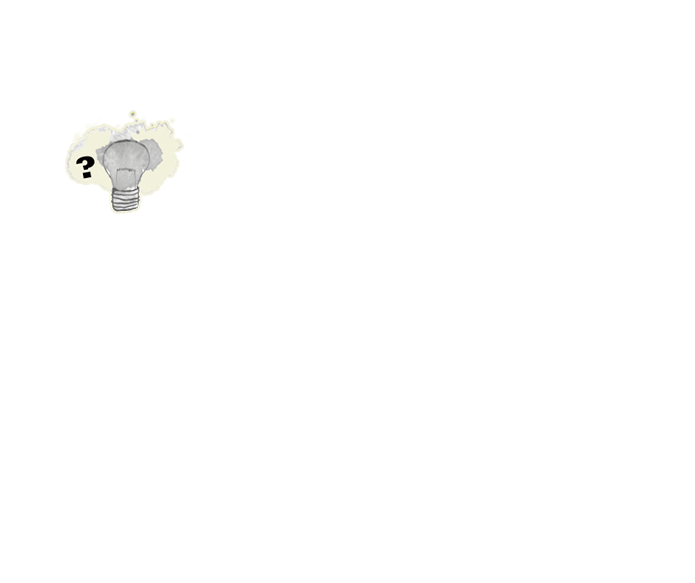
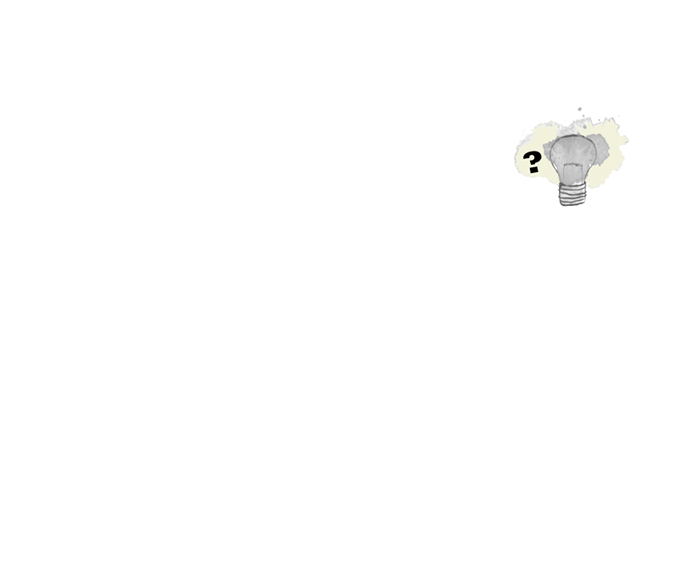
Update indexes, fix position of lightbulb for Ben Bitdiddle.

Changed region(s): [[0.7252, 0.1852, 0.9065, 0.3705], [0.0906, 0.1852, 0.2719, 0.3705]]

diff --git a/web/charles_lutwidge_dodgson/release.js b/web/charles_lutwidge_dodgson/release.js
@@ -1,10 +1,13 @@
 function imagemap() {
   return ''+
 "<img src=\"photo.png\" />"+
+"<img src=\"1-"+
+(puzzle_solved["1207_1370"]?"solved":"unsolved")+
+".png\" />"+
 "<img src=\"baby_quackers/-"+
 (puzzle_solved["baby_quackers"]?"solved":"unsolved")+
 ".png\" />"+
-"<img src=\"1-"+
+"<img src=\"2-"+
 (puzzle_solved["baby_sniffles"]?"solved":"unsolved")+
 ".png\" />"+
 "<img src=\"freshman_physics/-"+
@@ -16,7 +19,7 @@ function imagemap() {
 "<img src=\"medley/-"+
 (puzzle_solved["medley"]?"solved":"unsolved")+
 ".png\" />"+
-"<img src=\"2-"+
+"<img src=\"3-"+
 (puzzle_solved["middle_see"]?"solved":"unsolved")+
 ".png\" />"+
 "<img src=\"odd_voided/-"+
@@ -28,9 +31,6 @@ function imagemap() {
 "<img src=\"shady/-"+
 (puzzle_solved["shady"]?"solved":"unsolved")+
 ".png\" />"+
-"<img src=\"3-"+
-(puzzle_solved["skydancer"]?"solved":"unsolved")+
-".png\" />"+
 "<img src=\"toola_roola/-"+
 (puzzle_solved["toola_roola"]?"solved":"unsolved")+
 ".png\" />"+
@@ -40,16 +40,16 @@ function imagemap() {
 "<div class=\"paperclip\"></div>"+
 "<img src=\"../1px.png\" usemap=\"#map\" style=\"z-index:99\" />"+
 "<map name=\"map\">"+
+"<area shape=\"rect\" coords=\"75,185,112,260\" alt=\"1207 1370\" title=\"1207 1370\" href=\"../a_circus_line/1207_1370/\" />\n<area shape=\"rect\" coords=\"89,261,112,263\" alt=\"1207 1370\" title=\"1207 1370\" href=\"../a_circus_line/1207_1370/\" />\n<area shape=\"rect\" coords=\"113,193,143,289\" alt=\"1207 1370\" title=\"1207 1370\" href=\"../a_circus_line/1207_1370/\" />\n<area shape=\"rect\" coords=\"66,151,103,184\" alt=\"1207 1370\" title=\"1207 1370\" href=\"../a_circus_line/1207_1370/\" />\n<area shape=\"rect\" coords=\"72,188,74,200\" alt=\"1207 1370\" title=\"1207 1370\" href=\"../a_circus_line/1207_1370/\" />"+
 "<area shape=\"rect\" coords=\"400,340,452,480\" alt=\"Baby Quackers\" title=\"Baby Quackers\" href=\"baby_quackers/\" />\n<area shape=\"rect\" coords=\"400,481,411,486\" alt=\"Baby Quackers\" title=\"Baby Quackers\" href=\"baby_quackers/\" />\n<area shape=\"rect\" coords=\"453,389,517,463\" alt=\"Baby Quackers\" title=\"Baby Quackers\" href=\"baby_quackers/\" />\n<area shape=\"rect\" coords=\"407,325,435,339\" alt=\"Baby Quackers\" title=\"Baby Quackers\" href=\"baby_quackers/\" />\n<area shape=\"rect\" coords=\"393,450,399,484\" alt=\"Baby Quackers\" title=\"Baby Quackers\" href=\"baby_quackers/\" />"+
-"<area shape=\"rect\" coords=\"75,185,112,260\" alt=\"Baby Sniffles\" title=\"Baby Sniffles\" href=\"../okla_holmes_a/baby_sniffles/\" />\n<area shape=\"rect\" coords=\"89,261,112,263\" alt=\"Baby Sniffles\" title=\"Baby Sniffles\" href=\"../okla_holmes_a/baby_sniffles/\" />\n<area shape=\"rect\" coords=\"113,193,143,289\" alt=\"Baby Sniffles\" title=\"Baby Sniffles\" href=\"../okla_holmes_a/baby_sniffles/\" />\n<area shape=\"rect\" coords=\"66,151,103,184\" alt=\"Baby Sniffles\" title=\"Baby Sniffles\" href=\"../okla_holmes_a/baby_sniffles/\" />\n<area shape=\"rect\" coords=\"72,188,74,200\" alt=\"Baby Sniffles\" title=\"Baby Sniffles\" href=\"../okla_holmes_a/baby_sniffles/\" />"+
+"<area shape=\"rect\" coords=\"486,199,509,307\" alt=\"Baby Sniffles\" title=\"Baby Sniffles\" href=\"../okla_holmes_a/baby_sniffles/\" />\n<area shape=\"rect\" coords=\"510,209,514,297\" alt=\"Baby Sniffles\" title=\"Baby Sniffles\" href=\"../okla_holmes_a/baby_sniffles/\" />\n<area shape=\"rect\" coords=\"518,231,621,289\" alt=\"Baby Sniffles\" title=\"Baby Sniffles\" href=\"../okla_holmes_a/baby_sniffles/\" />\n<area shape=\"rect\" coords=\"466,208,485,315\" alt=\"Baby Sniffles\" title=\"Baby Sniffles\" href=\"../okla_holmes_a/baby_sniffles/\" />\n<area shape=\"rect\" coords=\"515,242,517,293\" alt=\"Baby Sniffles\" title=\"Baby Sniffles\" href=\"../okla_holmes_a/baby_sniffles/\" />"+
 "<area shape=\"rect\" coords=\"186,466,200,493\" alt=\"Freshman Physics\" title=\"Freshman Physics\" href=\"freshman_physics/\" />\n<area shape=\"rect\" coords=\"207,466,300,493\" alt=\"Freshman Physics\" title=\"Freshman Physics\" href=\"freshman_physics/\" />\n<area shape=\"rect\" coords=\"218,420,305,465\" alt=\"Freshman Physics\" title=\"Freshman Physics\" href=\"freshman_physics/\" />\n<area shape=\"rect\" coords=\"196,509,272,539\" alt=\"Freshman Physics\" title=\"Freshman Physics\" href=\"freshman_physics/\" />\n<area shape=\"rect\" coords=\"183,494,284,508\" alt=\"Freshman Physics\" title=\"Freshman Physics\" href=\"freshman_physics/\" />"+
 "<area shape=\"rect\" coords=\"105,374,160,383\" alt=\"Gibberish and More Gibberish\" title=\"Gibberish and More Gibberish\" href=\"gibberish_and_more_gibberish/\" />\n<area shape=\"rect\" coords=\"69,384,181,420\" alt=\"Gibberish and More Gibberish\" title=\"Gibberish and More Gibberish\" href=\"gibberish_and_more_gibberish/\" />\n<area shape=\"rect\" coords=\"76,421,209,453\" alt=\"Gibberish and More Gibberish\" title=\"Gibberish and More Gibberish\" href=\"gibberish_and_more_gibberish/\" />\n<area shape=\"rect\" coords=\"126,454,212,471\" alt=\"Gibberish and More Gibberish\" title=\"Gibberish and More Gibberish\" href=\"gibberish_and_more_gibberish/\" />\n<area shape=\"rect\" coords=\"126,336,155,373\" alt=\"Gibberish and More Gibberish\" title=\"Gibberish and More Gibberish\" href=\"gibberish_and_more_gibberish/\" />"+
 "<area shape=\"rect\" coords=\"530,285,563,390\" alt=\"Medley\" title=\"Medley\" href=\"medley/\" />\n<area shape=\"rect\" coords=\"548,391,561,394\" alt=\"Medley\" title=\"Medley\" href=\"medley/\" />\n<area shape=\"rect\" coords=\"514,288,529,385\" alt=\"Medley\" title=\"Medley\" href=\"medley/\" />\n<area shape=\"rect\" coords=\"474,322,513,380\" alt=\"Medley\" title=\"Medley\" href=\"medley/\" />\n<area shape=\"rect\" coords=\"564,337,572,387\" alt=\"Medley\" title=\"Medley\" href=\"medley/\" />"+
-"<area shape=\"rect\" coords=\"486,199,509,307\" alt=\"Middle-See\" title=\"Middle-See\" href=\"../a_circus_line/middle_see/\" />\n<area shape=\"rect\" coords=\"510,209,514,297\" alt=\"Middle-See\" title=\"Middle-See\" href=\"../a_circus_line/middle_see/\" />\n<area shape=\"rect\" coords=\"518,231,621,289\" alt=\"Middle-See\" title=\"Middle-See\" href=\"../a_circus_line/middle_see/\" />\n<area shape=\"rect\" coords=\"466,208,485,315\" alt=\"Middle-See\" title=\"Middle-See\" href=\"../a_circus_line/middle_see/\" />\n<area shape=\"rect\" coords=\"515,242,517,293\" alt=\"Middle-See\" title=\"Middle-See\" href=\"../a_circus_line/middle_see/\" />"+
+"<area shape=\"rect\" coords=\"347,98,402,141\" alt=\"Middle-See\" title=\"Middle-See\" href=\"../a_circus_line/middle_see/\" />\n<area shape=\"rect\" coords=\"349,142,401,163\" alt=\"Middle-See\" title=\"Middle-See\" href=\"../a_circus_line/middle_see/\" />\n<area shape=\"rect\" coords=\"361,164,396,193\" alt=\"Middle-See\" title=\"Middle-See\" href=\"../a_circus_line/middle_see/\" />\n<area shape=\"rect\" coords=\"348,86,377,97\" alt=\"Middle-See\" title=\"Middle-See\" href=\"../a_circus_line/middle_see/\" />\n<area shape=\"rect\" coords=\"403,117,406,140\" alt=\"Middle-See\" title=\"Middle-See\" href=\"../a_circus_line/middle_see/\" />"+
 "<area shape=\"rect\" coords=\"193,178,265,185\" alt=\"Odd Voided\" title=\"Odd Voided\" href=\"odd_voided/\" />\n<area shape=\"rect\" coords=\"186,186,267,254\" alt=\"Odd Voided\" title=\"Odd Voided\" href=\"odd_voided/\" />\n<area shape=\"rect\" coords=\"172,255,259,315\" alt=\"Odd Voided\" title=\"Odd Voided\" href=\"odd_voided/\" />\n<area shape=\"rect\" coords=\"268,186,276,230\" alt=\"Odd Voided\" title=\"Odd Voided\" href=\"odd_voided/\" />\n<area shape=\"rect\" coords=\"239,161,255,177\" alt=\"Odd Voided\" title=\"Odd Voided\" href=\"odd_voided/\" />"+
 "<area shape=\"rect\" coords=\"489,30,536,57\" alt=\"Sapphire Shores\" title=\"Sapphire Shores\" href=\"sapphire_shores/\" />\n<area shape=\"rect\" coords=\"489,58,554,96\" alt=\"Sapphire Shores\" title=\"Sapphire Shores\" href=\"sapphire_shores/\" />\n<area shape=\"rect\" coords=\"460,147,543,191\" alt=\"Sapphire Shores\" title=\"Sapphire Shores\" href=\"sapphire_shores/\" />\n<area shape=\"rect\" coords=\"470,114,558,146\" alt=\"Sapphire Shores\" title=\"Sapphire Shores\" href=\"sapphire_shores/\" />\n<area shape=\"rect\" coords=\"481,97,560,113\" alt=\"Sapphire Shores\" title=\"Sapphire Shores\" href=\"sapphire_shores/\" />"+
 "<area shape=\"rect\" coords=\"318,391,352,451\" alt=\"Shady\" title=\"Shady\" href=\"shady/\" />\n<area shape=\"rect\" coords=\"353,393,359,441\" alt=\"Shady\" title=\"Shady\" href=\"shady/\" />\n<area shape=\"rect\" coords=\"360,397,425,434\" alt=\"Shady\" title=\"Shady\" href=\"shady/\" />\n<area shape=\"rect\" coords=\"299,400,317,450\" alt=\"Shady\" title=\"Shady\" href=\"shady/\" />\n<area shape=\"rect\" coords=\"338,387,351,390\" alt=\"Shady\" title=\"Shady\" href=\"shady/\" />"+
-"<area shape=\"rect\" coords=\"347,98,402,141\" alt=\"Skydancer\" title=\"Skydancer\" href=\"../a_circus_line/skydancer/\" />\n<area shape=\"rect\" coords=\"349,142,401,163\" alt=\"Skydancer\" title=\"Skydancer\" href=\"../a_circus_line/skydancer/\" />\n<area shape=\"rect\" coords=\"361,164,396,193\" alt=\"Skydancer\" title=\"Skydancer\" href=\"../a_circus_line/skydancer/\" />\n<area shape=\"rect\" coords=\"348,86,377,97\" alt=\"Skydancer\" title=\"Skydancer\" href=\"../a_circus_line/skydancer/\" />\n<area shape=\"rect\" coords=\"403,117,406,140\" alt=\"Skydancer\" title=\"Skydancer\" href=\"../a_circus_line/skydancer/\" />"+
 "<area shape=\"rect\" coords=\"341,247,356,359\" alt=\"Toola-Roola\" title=\"Toola-Roola\" href=\"toola_roola/\" />\n<area shape=\"rect\" coords=\"357,239,374,344\" alt=\"Toola-Roola\" title=\"Toola-Roola\" href=\"toola_roola/\" />\n<area shape=\"rect\" coords=\"301,201,326,345\" alt=\"Toola-Roola\" title=\"Toola-Roola\" href=\"toola_roola/\" />\n<area shape=\"rect\" coords=\"327,215,340,352\" alt=\"Toola-Roola\" title=\"Toola-Roola\" href=\"toola_roola/\" />\n<area shape=\"rect\" coords=\"375,278,399,339\" alt=\"Toola-Roola\" title=\"Toola-Roola\" href=\"toola_roola/\" />"+
 "<area shape=\"rect\" coords=\"589,343,618,380\" alt=\"Winning Conditions\" title=\"Winning Conditions\" href=\"../okla_holmes_a/winning_conditions/\" />\n<area shape=\"rect\" coords=\"588,381,629,412\" alt=\"Winning Conditions\" title=\"Winning Conditions\" href=\"../okla_holmes_a/winning_conditions/\" />\n<area shape=\"rect\" coords=\"576,413,638,443\" alt=\"Winning Conditions\" title=\"Winning Conditions\" href=\"../okla_holmes_a/winning_conditions/\" />\n<area shape=\"rect\" coords=\"570,458,614,475\" alt=\"Winning Conditions\" title=\"Winning Conditions\" href=\"../okla_holmes_a/winning_conditions/\" />\n<area shape=\"rect\" coords=\"578,444,623,457\" alt=\"Winning Conditions\" title=\"Winning Conditions\" href=\"../okla_holmes_a/winning_conditions/\" />"+
 "</map>"+
@@ -58,6 +58,14 @@ function imagemap() {
 function puzzlelist() {
   return ""+
 "<table class=\"materials\">"+
+"<tr>"+
+"<td class=\"a_circus_line "+
+(puzzle_solved["1207_1370"]?"solved":"unsolved")+
+"\"><a href=\"../a_circus_line/1207_1370/\"><span>1207 1370</span></a></td>"+
+"<td class=\"a_circus_line "+
+(puzzle_solved["middle_see"]?"solved":"unsolved")+
+"\"><a href=\"../a_circus_line/middle_see/\"><span>Middle-See</span></a></td>"+
+"</tr>"+
 "<tr>"+
 "<td class=\"charles_lutwidge_dodgson "+
 (puzzle_solved["baby_quackers"]?"solved":"unsolved")+
@@ -86,22 +94,14 @@ function puzzlelist() {
 "<td class=\"charles_lutwidge_dodgson "+
 (puzzle_solved["gibberish_and_more_gibberish"]?"solved":"unsolved")+
 "\"><a href=\"gibberish_and_more_gibberish/\"><span>Gibberish and More Gibberish</span></a></td>"+
-"<td class=\"a_circus_line "+
-(puzzle_solved["skydancer"]?"solved":"unsolved")+
-"\"><a href=\"../a_circus_line/skydancer/\"><span>Skydancer</span></a></td>"+
-"</tr>"+
-"<tr>"+
-"<td class=\"charles_lutwidge_dodgson "+
-(puzzle_solved["medley"]?"solved":"unsolved")+
-"\"><a href=\"medley/\"><span>Medley</span></a></td>"+
 "<td class=\"charles_lutwidge_dodgson "+
 (puzzle_solved["toola_roola"]?"solved":"unsolved")+
 "\"><a href=\"toola_roola/\"><span>Toola-Roola</span></a></td>"+
 "</tr>"+
 "<tr>"+
-"<td class=\"a_circus_line "+
-(puzzle_solved["middle_see"]?"solved":"unsolved")+
-"\"><a href=\"../a_circus_line/middle_see/\"><span>Middle-See</span></a></td>"+
+"<td class=\"charles_lutwidge_dodgson "+
+(puzzle_solved["medley"]?"solved":"unsolved")+
+"\"><a href=\"medley/\"><span>Medley</span></a></td>"+
 "<td class=\"okla_holmes_a "+
 (puzzle_solved["winning_conditions"]?"solved":"unsolved")+
 "\"><a href=\"../okla_holmes_a/winning_conditions/\"><span>Winning Conditions</span></a></td>"+

diff --git a/web/a_circus_line/release.js b/web/a_circus_line/release.js
@@ -1,6 +1,9 @@
 function imagemap() {
   return ''+
 "<img src=\"key.png\" />"+
+"<img src=\"1207_1370/-"+
+(puzzle_solved["1207_1370"]?"solved":"unsolved")+
+".png\" />"+
 "<img src=\"fight_choreography/-"+
 (puzzle_solved["fight_choreography"]?"solved":"unsolved")+
 ".png\" />"+
@@ -19,9 +22,6 @@ function imagemap() {
 "<img src=\"revisiting_history/-"+
 (puzzle_solved["revisiting_history"]?"solved":"unsolved")+
 ".png\" />"+
-"<img src=\"skydancer/-"+
-(puzzle_solved["skydancer"]?"solved":"unsolved")+
-".png\" />"+
 "<img src=\"star_search/-"+
 (puzzle_solved["star_search"]?"solved":"unsolved")+
 ".png\" />"+
@@ -33,13 +33,13 @@ function imagemap() {
 ".png\" />"+
 "<img src=\"../1px.png\" usemap=\"#map\" style=\"z-index:99\" />"+
 "<map name=\"map\">"+
+"<area shape=\"rect\" coords=\"384,321,539,348\" alt=\"1207 1370\" title=\"1207 1370\" href=\"1207_1370/\" />\n<area shape=\"rect\" coords=\"336,349,583,395\" alt=\"1207 1370\" title=\"1207 1370\" href=\"1207_1370/\" />\n<area shape=\"rect\" coords=\"480,209,611,320\" alt=\"1207 1370\" title=\"1207 1370\" href=\"1207_1370/\" />\n<area shape=\"rect\" coords=\"341,455,497,537\" alt=\"1207 1370\" title=\"1207 1370\" href=\"1207_1370/\" />\n<area shape=\"rect\" coords=\"353,396,649,454\" alt=\"1207 1370\" title=\"1207 1370\" href=\"1207_1370/\" />"+
 "<area shape=\"rect\" coords=\"575,215,602,240\" alt=\"Fight Choreography\" title=\"Fight Choreography\" href=\"fight_choreography/\" />\n<area shape=\"rect\" coords=\"618,222,639,240\" alt=\"Fight Choreography\" title=\"Fight Choreography\" href=\"fight_choreography/\" />\n<area shape=\"rect\" coords=\"569,241,632,258\" alt=\"Fight Choreography\" title=\"Fight Choreography\" href=\"fight_choreography/\" />\n<area shape=\"rect\" coords=\"584,272,609,300\" alt=\"Fight Choreography\" title=\"Fight Choreography\" href=\"fight_choreography/\" />\n<area shape=\"rect\" coords=\"566,259,623,271\" alt=\"Fight Choreography\" title=\"Fight Choreography\" href=\"fight_choreography/\" />"+
 "<area shape=\"rect\" coords=\"56,238,170,397\" alt=\"Magic Star\" title=\"Magic Star\" href=\"magic_star/\" />\n<area shape=\"rect\" coords=\"50,398,163,446\" alt=\"Magic Star\" title=\"Magic Star\" href=\"magic_star/\" />\n<area shape=\"rect\" coords=\"31,447,142,517\" alt=\"Magic Star\" title=\"Magic Star\" href=\"magic_star/\" />\n<area shape=\"rect\" coords=\"47,183,77,237\" alt=\"Magic Star\" title=\"Magic Star\" href=\"magic_star/\" />\n<area shape=\"rect\" coords=\"171,316,191,399\" alt=\"Magic Star\" title=\"Magic Star\" href=\"magic_star/\" />"+
 "<area shape=\"rect\" coords=\"402,242,415,308\" alt=\"Middle-See\" title=\"Middle-See\" href=\"middle_see/\" />\n<area shape=\"rect\" coords=\"406,309,415,315\" alt=\"Middle-See\" title=\"Middle-See\" href=\"middle_see/\" />\n<area shape=\"rect\" coords=\"416,244,432,331\" alt=\"Middle-See\" title=\"Middle-See\" href=\"middle_see/\" />\n<area shape=\"rect\" coords=\"385,276,398,297\" alt=\"Middle-See\" title=\"Middle-See\" href=\"middle_see/\" />\n<area shape=\"rect\" coords=\"399,261,401,285\" alt=\"Middle-See\" title=\"Middle-See\" href=\"middle_see/\" />"+
 "<area shape=\"rect\" coords=\"155,462,359,502\" alt=\"Potlines\" title=\"Potlines\" href=\"potlines/\" />\n<area shape=\"rect\" coords=\"155,503,362,505\" alt=\"Potlines\" title=\"Potlines\" href=\"potlines/\" />\n<area shape=\"rect\" coords=\"165,295,321,437\" alt=\"Potlines\" title=\"Potlines\" href=\"potlines/\" />\n<area shape=\"rect\" coords=\"138,506,415,537\" alt=\"Potlines\" title=\"Potlines\" href=\"potlines/\" />\n<area shape=\"rect\" coords=\"159,438,343,461\" alt=\"Potlines\" title=\"Potlines\" href=\"potlines/\" />"+
 "<area shape=\"rect\" coords=\"243,0,363,6\" alt=\"Pure and Simple\" title=\"Pure and Simple\" href=\"pure_and_simple/\" />\n<area shape=\"rect\" coords=\"212,7,366,27\" alt=\"Pure and Simple\" title=\"Pure and Simple\" href=\"pure_and_simple/\" />\n<area shape=\"rect\" coords=\"201,45,325,79\" alt=\"Pure and Simple\" title=\"Pure and Simple\" href=\"pure_and_simple/\" />\n<area shape=\"rect\" coords=\"100,25,200,120\" alt=\"Pure and Simple\" title=\"Pure and Simple\" href=\"pure_and_simple/\" />\n<area shape=\"rect\" coords=\"205,28,349,44\" alt=\"Pure and Simple\" title=\"Pure and Simple\" href=\"pure_and_simple/\" />"+
 "<area shape=\"rect\" coords=\"654,251,673,300\" alt=\"Revisiting History\" title=\"Revisiting History\" href=\"revisiting_history/\" />\n<area shape=\"rect\" coords=\"654,301,664,329\" alt=\"Revisiting History\" title=\"Revisiting History\" href=\"revisiting_history/\" />\n<area shape=\"rect\" coords=\"619,277,644,358\" alt=\"Revisiting History\" title=\"Revisiting History\" href=\"revisiting_history/\" />\n<area shape=\"rect\" coords=\"645,259,653,359\" alt=\"Revisiting History\" title=\"Revisiting History\" href=\"revisiting_history/\" />\n<area shape=\"rect\" coords=\"674,281,682,309\" alt=\"Revisiting History\" title=\"Revisiting History\" href=\"revisiting_history/\" />"+
-"<area shape=\"rect\" coords=\"384,321,539,348\" alt=\"Skydancer\" title=\"Skydancer\" href=\"skydancer/\" />\n<area shape=\"rect\" coords=\"336,349,583,395\" alt=\"Skydancer\" title=\"Skydancer\" href=\"skydancer/\" />\n<area shape=\"rect\" coords=\"480,209,611,320\" alt=\"Skydancer\" title=\"Skydancer\" href=\"skydancer/\" />\n<area shape=\"rect\" coords=\"341,455,497,537\" alt=\"Skydancer\" title=\"Skydancer\" href=\"skydancer/\" />\n<area shape=\"rect\" coords=\"353,396,649,454\" alt=\"Skydancer\" title=\"Skydancer\" href=\"skydancer/\" />"+
 "<area shape=\"rect\" coords=\"324,49,348,60\" alt=\"Star Search\" title=\"Star Search\" href=\"star_search/\" />\n<area shape=\"rect\" coords=\"324,61,371,76\" alt=\"Star Search\" title=\"Star Search\" href=\"star_search/\" />\n<area shape=\"rect\" coords=\"336,77,369,99\" alt=\"Star Search\" title=\"Star Search\" href=\"star_search/\" />\n<area shape=\"rect\" coords=\"340,105,352,118\" alt=\"Star Search\" title=\"Star Search\" href=\"star_search/\" />\n<area shape=\"rect\" coords=\"338,100,362,104\" alt=\"Star Search\" title=\"Star Search\" href=\"star_search/\" />\n<area shape=\"rect\" coords=\"374,67,378,72\" alt=\"Star Search\" title=\"Star Search\" href=\"star_search/\" />"+
 "<area shape=\"rect\" coords=\"233,188,272,453\" alt=\"The Wicked Switch\" title=\"The Wicked Switch\" href=\"the_wicked_switch/\" />\n<area shape=\"rect\" coords=\"273,206,280,422\" alt=\"The Wicked Switch\" title=\"The Wicked Switch\" href=\"the_wicked_switch/\" />\n<area shape=\"rect\" coords=\"281,270,352,459\" alt=\"The Wicked Switch\" title=\"The Wicked Switch\" href=\"the_wicked_switch/\" />\n<area shape=\"rect\" coords=\"58,488,157,537\" alt=\"The Wicked Switch\" title=\"The Wicked Switch\" href=\"the_wicked_switch/\" />\n<area shape=\"rect\" coords=\"219,228,232,436\" alt=\"The Wicked Switch\" title=\"The Wicked Switch\" href=\"the_wicked_switch/\" />\n<area shape=\"rect\" coords=\"172,496,213,537\" alt=\"The Wicked Switch\" title=\"The Wicked Switch\" href=\"the_wicked_switch/\" />\n<area shape=\"rect\" coords=\"240,454,257,485\" alt=\"The Wicked Switch\" title=\"The Wicked Switch\" href=\"the_wicked_switch/\" />\n<area shape=\"rect\" coords=\"74,203,83,207\" alt=\"The Wicked Switch\" title=\"The Wicked Switch\" href=\"the_wicked_switch/\" />\n<area shape=\"rect\" coords=\"94,263,98,266\" alt=\"The Wicked Switch\" title=\"The Wicked Switch\" href=\"the_wicked_switch/\" />"+
 "<area shape=\"rect\" coords=\"561,397,577,531\" alt=\"Truly\" title=\"Truly\" href=\"truly/\" />\n<area shape=\"rect\" coords=\"578,406,588,497\" alt=\"Truly\" title=\"Truly\" href=\"truly/\" />\n<area shape=\"rect\" coords=\"541,433,560,536\" alt=\"Truly\" title=\"Truly\" href=\"truly/\" />\n<area shape=\"rect\" coords=\"589,414,617,451\" alt=\"Truly\" title=\"Truly\" href=\"truly/\" />\n<area shape=\"rect\" coords=\"522,438,540,487\" alt=\"Truly\" title=\"Truly\" href=\"truly/\" />"+
@@ -48,6 +48,14 @@ function imagemap() {
 }
 function puzzlelist() {
   return ""+
+"<tr>"+
+"<td><a href=\"1207_1370/\" class=\""+
+(puzzle_solved["1207_1370"]?"solved":"unsolved")+
+"\">1207 1370</a></td>"+
+"<td><a href=\"pure_and_simple/\" class=\""+
+(puzzle_solved["pure_and_simple"]?"solved":"unsolved")+
+"\">Pure and Simple</a></td>"+
+"</tr>"+
 "<tr>"+
 "<td><a href=\"fight_choreography/\" class=\""+
 (puzzle_solved["fight_choreography"]?"solved":"unsolved")+
@@ -60,30 +68,22 @@ function puzzlelist() {
 "<td><a href=\"magic_star/\" class=\""+
 (puzzle_solved["magic_star"]?"solved":"unsolved")+
 "\">Magic Star</a></td>"+
-"<td><a href=\"skydancer/\" class=\""+
-(puzzle_solved["skydancer"]?"solved":"unsolved")+
-"\">Skydancer</a></td>"+
-"</tr>"+
-"<tr>"+
-"<td><a href=\"middle_see/\" class=\""+
-(puzzle_solved["middle_see"]?"solved":"unsolved")+
-"\">Middle-See</a></td>"+
 "<td><a href=\"star_search/\" class=\""+
 (puzzle_solved["star_search"]?"solved":"unsolved")+
 "\">Star Search</a></td>"+
 "</tr>"+
 "<tr>"+
-"<td><a href=\"potlines/\" class=\""+
-(puzzle_solved["potlines"]?"solved":"unsolved")+
-"\">Potlines</a></td>"+
+"<td><a href=\"middle_see/\" class=\""+
+(puzzle_solved["middle_see"]?"solved":"unsolved")+
+"\">Middle-See</a></td>"+
 "<td><a href=\"the_wicked_switch/\" class=\""+
 (puzzle_solved["the_wicked_switch"]?"solved":"unsolved")+
 "\">The Wicked Switch</a></td>"+
 "</tr>"+
 "<tr>"+
-"<td><a href=\"pure_and_simple/\" class=\""+
-(puzzle_solved["pure_and_simple"]?"solved":"unsolved")+
-"\">Pure and Simple</a></td>"+
+"<td><a href=\"potlines/\" class=\""+
+(puzzle_solved["potlines"]?"solved":"unsolved")+
+"\">Potlines</a></td>"+
 "<td><a href=\"truly/\" class=\""+
 (puzzle_solved["truly"]?"solved":"unsolved")+
 "\">Truly</a></td>"+

diff --git a/web/ben_bitdiddle/release.js b/web/ben_bitdiddle/release.js
@@ -62,7 +62,7 @@ function imagemap() {
 "<img src=\"../1px.png\" usemap=\"#map\" style=\"z-index:99\" />"+
 "<map name=\"map\">"+
 "<area shape=\"rect\" coords=\"60,249,116,265\" alt=\"Dawn of a New Era\" title=\"Dawn of a New Era\" href=\"../into_the_woodstock/dawn_of_a_new_era/\" />\n<area shape=\"rect\" coords=\"54,266,113,277\" alt=\"Dawn of a New Era\" title=\"Dawn of a New Era\" href=\"../into_the_woodstock/dawn_of_a_new_era/\" />\n<area shape=\"rect\" coords=\"40,278,103,300\" alt=\"Dawn of a New Era\" title=\"Dawn of a New Era\" href=\"../into_the_woodstock/dawn_of_a_new_era/\" />\n<area shape=\"rect\" coords=\"68,236,102,248\" alt=\"Dawn of a New Era\" title=\"Dawn of a New Era\" href=\"../into_the_woodstock/dawn_of_a_new_era/\" />\n<area shape=\"rect\" coords=\"74,301,86,318\" alt=\"Dawn of a New Era\" title=\"Dawn of a New Era\" href=\"../into_the_woodstock/dawn_of_a_new_era/\" />"+
-"<area shape=\"rect\" coords=\"74,117,175,136\" alt=\"Ember\" title=\"Ember\" href=\"../mayan_fair_lady/ember/\" />\n<area shape=\"rect\" coords=\"65,137,179,185\" alt=\"Ember\" title=\"Ember\" href=\"../mayan_fair_lady/ember/\" />\n<area shape=\"rect\" coords=\"99,186,160,213\" alt=\"Ember\" title=\"Ember\" href=\"../mayan_fair_lady/ember/\" />\n<area shape=\"rect\" coords=\"128,110,144,116\" alt=\"Ember\" title=\"Ember\" href=\"../mayan_fair_lady/ember/\" />\n<area shape=\"rect\" coords=\"180,133,189,150\" alt=\"Ember\" title=\"Ember\" href=\"../mayan_fair_lady/ember/\" />"+
+"<area shape=\"rect\" coords=\"514,145,624,171\" alt=\"Ember\" title=\"Ember\" href=\"../mayan_fair_lady/ember/\" />\n<area shape=\"rect\" coords=\"518,172,611,178\" alt=\"Ember\" title=\"Ember\" href=\"../mayan_fair_lady/ember/\" />\n<area shape=\"rect\" coords=\"522,113,620,133\" alt=\"Ember\" title=\"Ember\" href=\"../mayan_fair_lady/ember/\" />\n<area shape=\"rect\" coords=\"517,134,629,144\" alt=\"Ember\" title=\"Ember\" href=\"../mayan_fair_lady/ember/\" />\n<area shape=\"rect\" coords=\"547,179,605,206\" alt=\"Ember\" title=\"Ember\" href=\"../mayan_fair_lady/ember/\" />\n<area shape=\"rect\" coords=\"577,107,581,111\" alt=\"Ember\" title=\"Ember\" href=\"../mayan_fair_lady/ember/\" />"+
 "<area shape=\"rect\" coords=\"479,208,480,238\" alt=\"Granny Smith\" title=\"Granny Smith\" href=\"../okla_holmes_a/granny_smith/\" />\n<area shape=\"rect\" coords=\"481,207,491,240\" alt=\"Granny Smith\" title=\"Granny Smith\" href=\"../okla_holmes_a/granny_smith/\" />\n<area shape=\"rect\" coords=\"461,210,474,230\" alt=\"Granny Smith\" title=\"Granny Smith\" href=\"../okla_holmes_a/granny_smith/\" />\n<area shape=\"rect\" coords=\"475,209,478,235\" alt=\"Granny Smith\" title=\"Granny Smith\" href=\"../okla_holmes_a/granny_smith/\" />\n<area shape=\"rect\" coords=\"492,209,493,216\" alt=\"Granny Smith\" title=\"Granny Smith\" href=\"../okla_holmes_a/granny_smith/\" />"+
 "<area shape=\"rect\" coords=\"500,252,505,264\" alt=\"Paper Trail\" title=\"Paper Trail\" href=\"../okla_holmes_a/paper_trail/\" />\n<area shape=\"rect\" coords=\"506,246,581,270\" alt=\"Paper Trail\" title=\"Paper Trail\" href=\"../okla_holmes_a/paper_trail/\" />\n<area shape=\"rect\" coords=\"513,229,577,245\" alt=\"Paper Trail\" title=\"Paper Trail\" href=\"../okla_holmes_a/paper_trail/\" />\n<area shape=\"rect\" coords=\"529,212,566,228\" alt=\"Paper Trail\" title=\"Paper Trail\" href=\"../okla_holmes_a/paper_trail/\" />\n<area shape=\"rect\" coords=\"514,271,549,286\" alt=\"Paper Trail\" title=\"Paper Trail\" href=\"../okla_holmes_a/paper_trail/\" />"+
 "<area shape=\"rect\" coords=\"577,341,605,358\" alt=\"Playing a Part\" title=\"Playing a Part\" href=\"../okla_holmes_a/playing_a_part/\" />\n<area shape=\"rect\" coords=\"560,359,585,379\" alt=\"Playing a Part\" title=\"Playing a Part\" href=\"../okla_holmes_a/playing_a_part/\" />\n<area shape=\"rect\" coords=\"607,318,643,328\" alt=\"Playing a Part\" title=\"Playing a Part\" href=\"../okla_holmes_a/playing_a_part/\" />\n<area shape=\"rect\" coords=\"595,329,640,340\" alt=\"Playing a Part\" title=\"Playing a Part\" href=\"../okla_holmes_a/playing_a_part/\" />\n<area shape=\"rect\" coords=\"621,305,637,317\" alt=\"Playing a Part\" title=\"Playing a Part\" href=\"../okla_holmes_a/playing_a_part/\" />"+

diff --git a/web/solved.js b/web/solved.js
@@ -1,2 +1,2 @@
 // This file is written by the hunt-running software
-var puzzle_solved = {"of_course": 1, "course_7e": 1, "blowing_down_the_house": 1, "keeping_records": 1, "potlines": 1, "playing_a_part": 1, "the_voices_in_your_head": 1, "dawn_of_a_new_era": 1, "collect_them_all": 1, "screen_test": 1, "middle_see": 1, "revisiting_history": 1, "star_search": 1, "stage_lines": 1, "functions": 1, "strip_mind": 1, "odd_voided": 1, "disorder_of_operations": 1, "tax_in_space": 1, "pure_and_simple": 1, "fulfilling_puzzle": 1, "itinerant_people_of_america": 1, "crank_it_up_to_7": 1, "jekyll_and_hyde": 1, "towers": 1, "paper_trail": 1, "jfk_shags_a_sad_slim_lass": 1, "critical_thinking": 1, "argh": 1, "fight_choreography": 1, "eight_digits": 1, "winning_conditions": 1, "freshman_physics": 1, "gibberish_and_more_gibberish": 1, "sounds_good_to_me": 1, "the_measure_of_all_things": 1, "the_wicked_switch": 1, "panorama": 1, "criss_cross": 1, "blinkenlights": 1, "set_theory": 1} ;
+var puzzle_solved = {"of_course": 1, "course_7e": 1, "blowing_down_the_house": 1, "keeping_records": 1, "potlines": 1, "playing_a_part": 1, "the_voices_in_your_head": 1, "dawn_of_a_new_era": 1, "collect_them_all": 1, "screen_test": 1, "middle_see": 1, "revisiting_history": 1, "star_search": 1, "stage_lines": 1, "functions": 1, "strip_mind": 1, "odd_voided": 1, "1207_1370": 1, "disorder_of_operations": 1, "tax_in_space": 1, "pure_and_simple": 1, "fulfilling_puzzle": 1, "itinerant_people_of_america": 1, "crank_it_up_to_7": 1, "jekyll_and_hyde": 1, "towers": 1, "paper_trail": 1, "jfk_shags_a_sad_slim_lass": 1, "critical_thinking": 1, "argh": 1, "fight_choreography": 1, "eight_digits": 1, "winning_conditions": 1, "freshman_physics": 1, "gibberish_and_more_gibberish": 1, "sounds_good_to_me": 1, "the_measure_of_all_things": 1, "the_wicked_switch": 1, "panorama": 1, "criss_cross": 1, "blinkenlights": 1, "set_theory": 1} ;

diff --git a/web/a_circus_line/1207_1370/-link.js b/web/a_circus_line/1207_1370/-link.js
@@ -1,0 +1,3 @@
+---
+layout: charles_lutwidge_dodgson_link
+---

diff --git a/web/a_circus_line/middle_see/-link.js b/web/a_circus_line/middle_see/-link.js
@@ -1,0 +1,3 @@
+---
+layout: charles_lutwidge_dodgson_link
+---

diff --git a/web/into_the_woodstock/criss_cross/-link.js b/web/into_the_woodstock/criss_cross/-link.js
@@ -1,0 +1,3 @@
+---
+layout: sheila_sunshine_link
+---

diff --git a/web/okla_holmes_a/crank_it_up_to_7/-link.js b/web/okla_holmes_a/crank_it_up_to_7/-link.js
@@ -1,0 +1,3 @@
+---
+layout: sheila_sunshine_link
+---

diff --git a/web/phantom_of_the_operator/course_7e/-link.js b/web/phantom_of_the_operator/course_7e/-link.js
@@ -1,0 +1,3 @@
+---
+layout: sheila_sunshine_link
+---

diff --git a/web/mayan_fair_lady/stage_lines/-link.js b/web/mayan_fair_lady/stage_lines/-link.js
@@ -1,0 +1,3 @@
+---
+layout: ben_bitdiddle_link
+---

diff --git a/web/ogre_of_la_mancha/eight_digits/-link.js b/web/ogre_of_la_mancha/eight_digits/-link.js
@@ -1,0 +1,3 @@
+---
+layout: watson_2_0_link
+---
